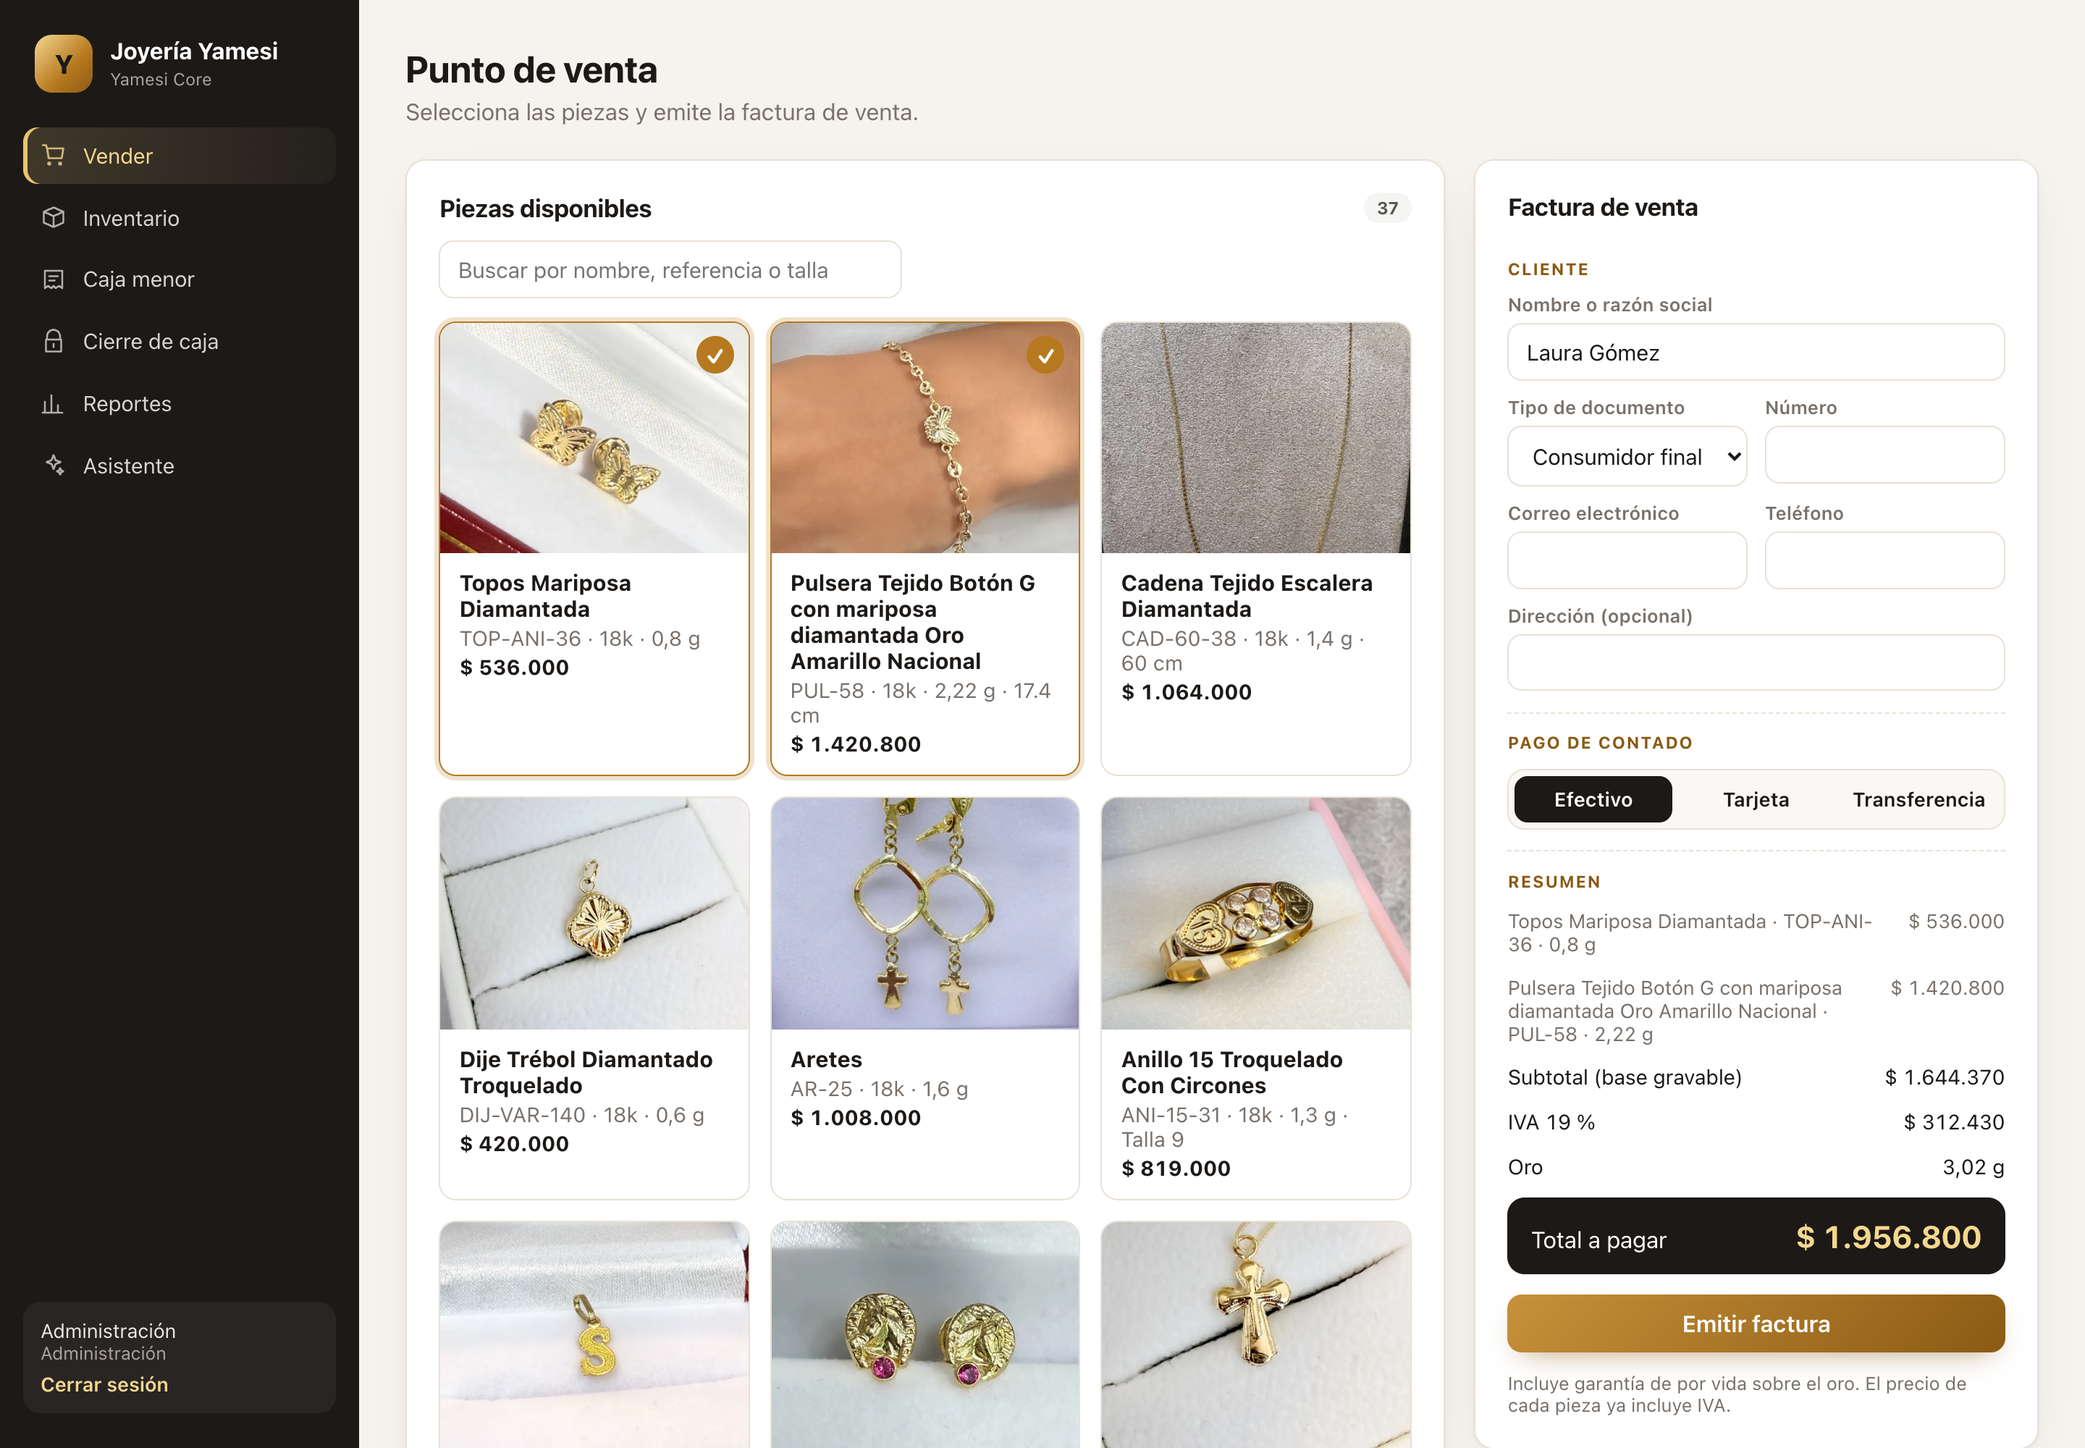
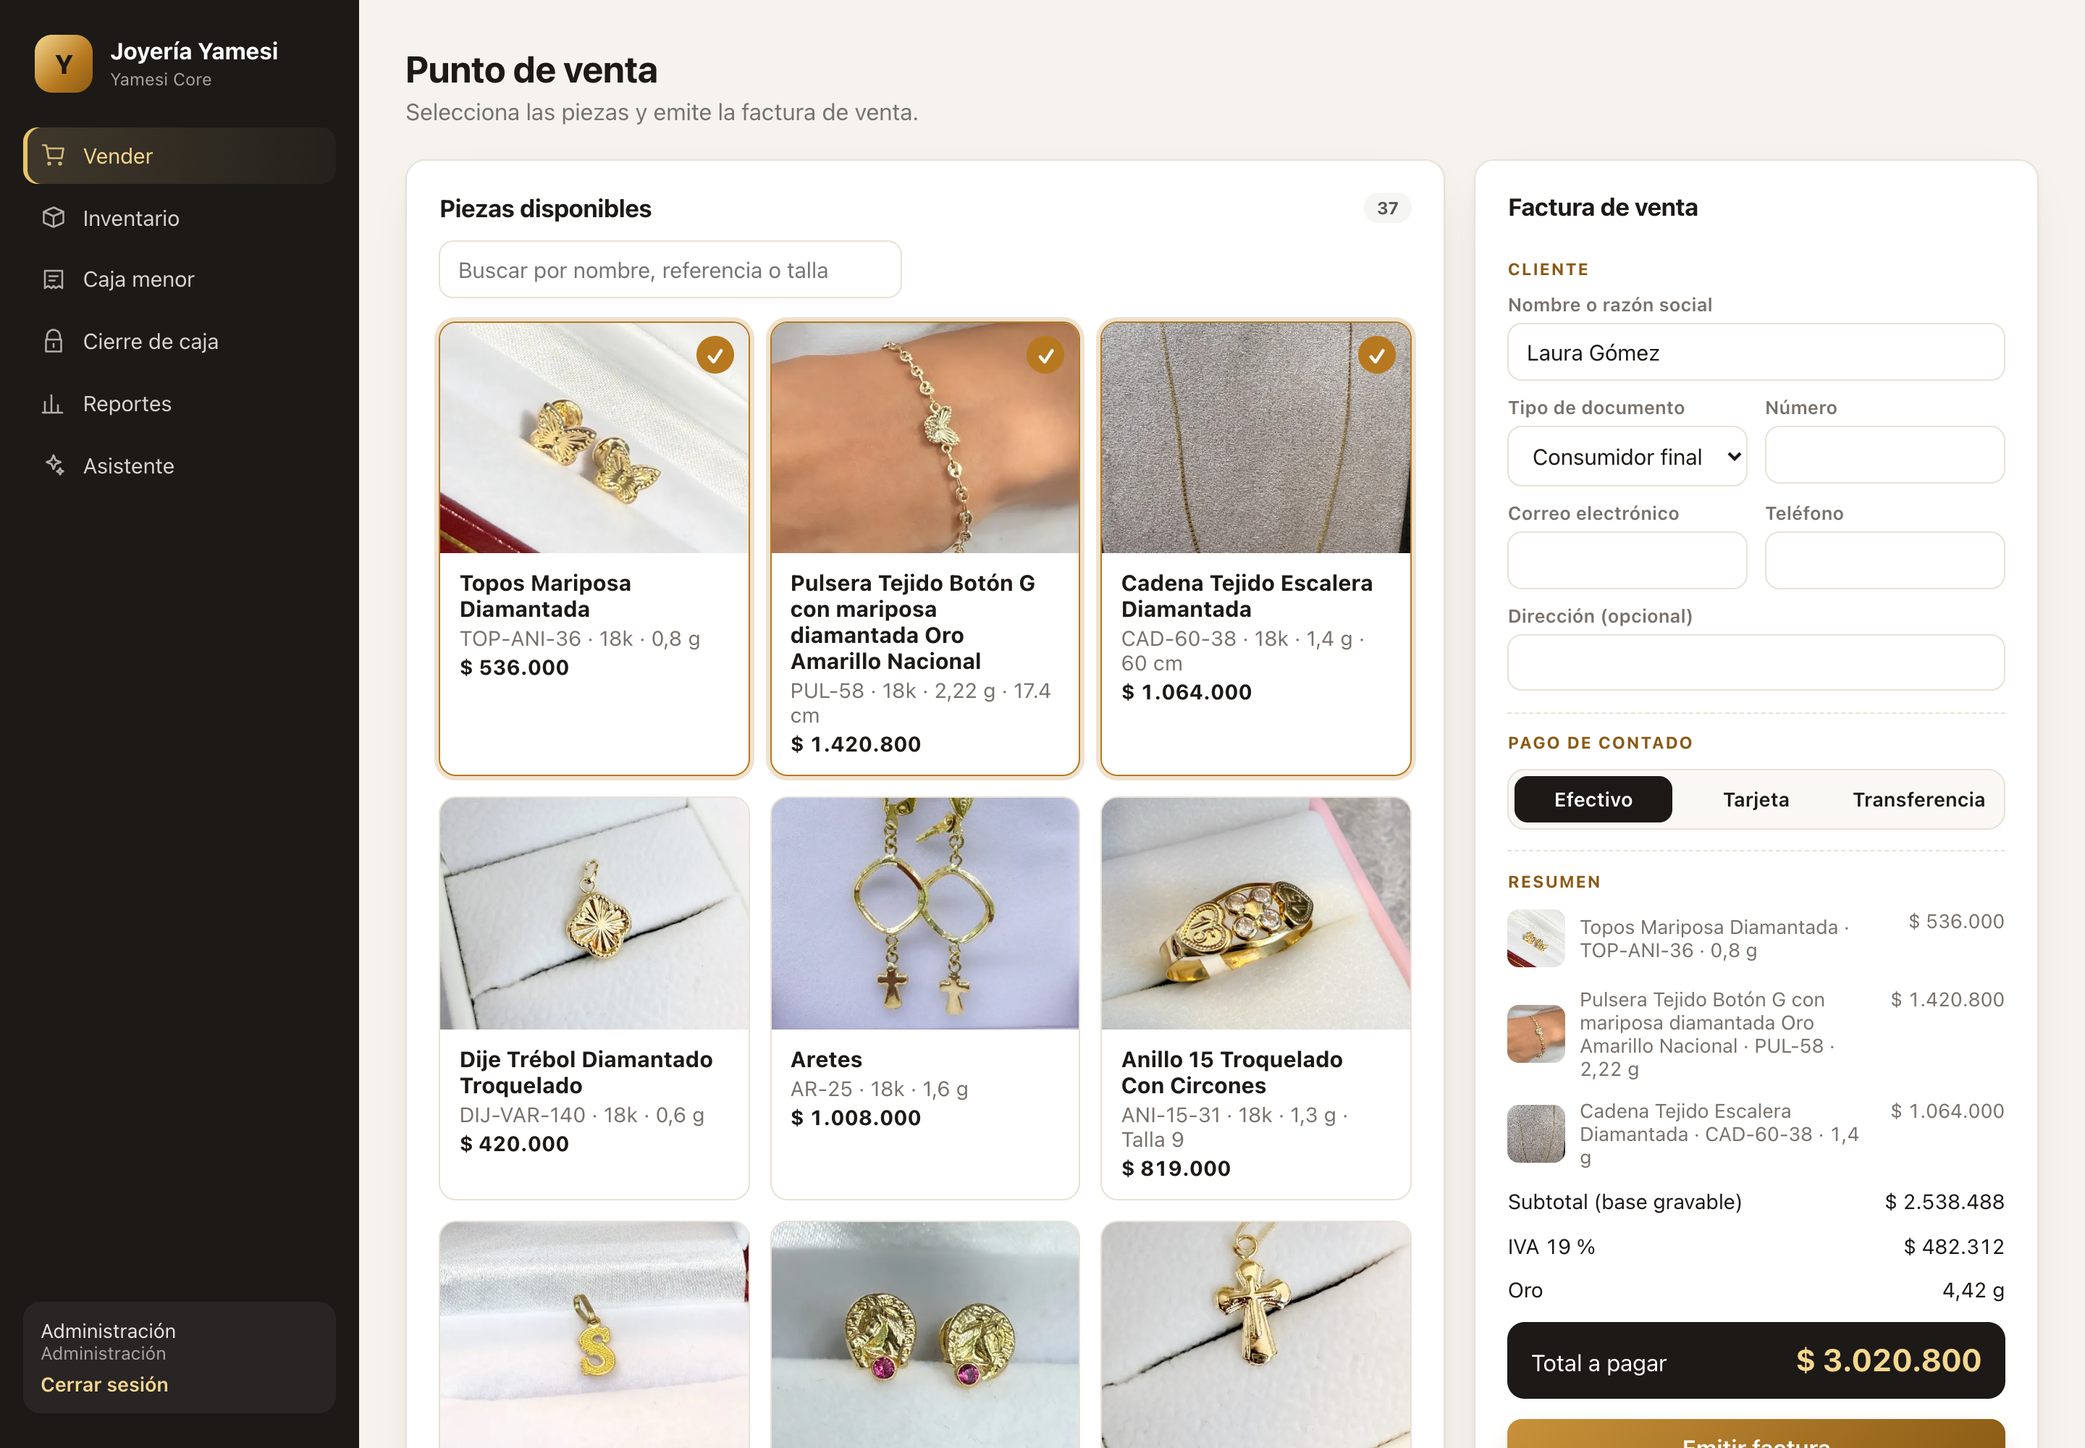
feat(invoices): each piece's photo on sale lines, the issued invoice and the PDF; README processes
Invoice lines return the piece photo (presigned URL); the PDF embeds JPEG
photos as is, without decoding. The README walks through every process
with diagrams and screenshots.

diff --git a/backend/src/invoices/invoice-pdf.ts b/backend/src/invoices/invoice-pdf.ts
@@ -15,6 +15,8 @@ export interface InvoicePdfItem {
   taxBase: number;
   vat: number;
   price: number;
+  /** JPEG photo of the piece, printed on its line. */
+  photo?: Buffer | null;
 }
 
 export interface InvoicePdfData {
@@ -204,8 +206,11 @@ export function renderInvoicePdf(data: InvoicePdfData): Promise<Buffer> {
     };
     tableHeader();
 
+    // Lines grow to fit a photo when at least one piece has one.
+    const withPhotos = data.items.some((item) => item.photo);
+    const photoSize = 34;
     data.items.forEach((item, index) => {
-      const rowHeight = 30;
+      const rowHeight = withPhotos ? photoSize + 8 : 30;
       if (y + rowHeight > PAGE.footerTop - 10) {
         doc.addPage();
         drawHeader();
@@ -224,12 +229,23 @@ export function renderInvoicePdf(data: InvoicePdfData): Promise<Buffer> {
       ];
       doc.font('Helvetica').fontSize(8.5).fillColor(COLOR.ink);
       cells.forEach((value, i) => {
-        if (value !== null) doc.text(value, cols[i].x + 3, y + 7, { width: cols[i].w - 6, align: cols[i].align, lineBreak: false, ellipsis: true });
+        if (value !== null) doc.text(value, cols[i].x + 3, withPhotos ? y + rowHeight / 2 - 4 : y + 7, { width: cols[i].w - 6, align: cols[i].align, lineBreak: false, ellipsis: true });
       });
       const description = item.size ? `${item.name} · ${item.size}` : item.name;
-      doc.font('Helvetica-Bold').fontSize(8.5).text(description, cols[2].x + 3, y + 5, { width: cols[2].w - 6, lineBreak: false, ellipsis: true });
+      let textX = cols[2].x + 3;
+      if (item.photo) {
+        doc.save();
+        doc.roundedRect(textX, y + 4, photoSize, photoSize, 4).clip();
+        doc.image(item.photo, textX, y + 4, { cover: [photoSize, photoSize], align: 'center', valign: 'center' });
+        doc.restore();
+      }
+      if (withPhotos) textX += photoSize + 6;
+      const textWidth = cols[2].w - 6 - (textX - cols[2].x - 3);
+      // With photos, the two text lines sit centered next to the picture.
+      const textTop = withPhotos ? y + rowHeight / 2 - 11 : y + 5;
+      doc.font('Helvetica-Bold').fontSize(8.5).text(description, textX, textTop, { width: textWidth, lineBreak: false, ellipsis: true });
       doc.font('Helvetica').fontSize(7.5).fillColor(COLOR.muted)
-        .text(`Oro ${item.karat}k · ley ${fineness(item.karat)} · ${grams.format(item.grams)} g`, cols[2].x + 3, y + 17, { width: cols[2].w - 6 });
+        .text(`Oro ${item.karat}k · ley ${fineness(item.karat)} · ${grams.format(item.grams)} g`, textX, textTop + 12, { width: textWidth });
       doc.moveTo(PAGE.left, y + rowHeight).lineTo(PAGE.right, y + rowHeight).lineWidth(0.5).strokeColor(COLOR.line).stroke();
       y += rowHeight;
     });

diff --git a/backend/src/invoices/invoices.service.ts b/backend/src/invoices/invoices.service.ts
@@ -56,6 +56,7 @@ interface ItemRow {
   sku: string;
   reference: string | null;
   size: string | null;
+  image_key: string | null;
   name: string;
   karat: number;
   gold_mg: number;
@@ -312,7 +313,7 @@ export class InvoicesService {
       subtotal: row.subtotal,
       vatTotal: row.vat_total,
       total: row.total,
-      items: await this.items(id),
+      items: await this.pdfItems(id),
       cufe: row.cufe ?? computeCufe(cufeInput),
       cufeInput,
     });
@@ -354,8 +355,30 @@ export class InvoicesService {
   }
 
   private async items(invoiceId: string) {
+    const rows = await this.itemRows(invoiceId);
+    return Promise.all(
+      rows.map(async ({ image_key, ...row }) => ({
+        ...this.toItem(row),
+        imageUrl: image_key ? await this.storage.signedUrl(image_key) : null,
+      })),
+    );
+  }
+
+  /** Lines for the PDF, with each piece's photo when it is a JPEG (embedded as is, no decoding). */
+  private async pdfItems(invoiceId: string) {
+    const rows = await this.itemRows(invoiceId);
+    return Promise.all(
+      rows.map(async ({ image_key, ...row }) => {
+        const photo = image_key ? await this.storage.get(image_key).catch(() => null) : null;
+        const isJpeg = photo !== null && photo[0] === 0xff && photo[1] === 0xd8 && photo[2] === 0xff;
+        return { ...this.toItem(row), photo: isJpeg ? photo : null };
+      }),
+    );
+  }
+
+  private async itemRows(invoiceId: string) {
     const { rows } = await this.db.query<ItemRow>(
-      `SELECT ii.piece_id, p.sku, p.reference, p.size, p.name, l.karat, p.gold_mg, ii.price, ii.cost, ii.vat_rate, ii.tax_base, ii.vat
+      `SELECT ii.piece_id, p.sku, p.reference, p.size, p.image_key, p.name, l.karat, p.gold_mg, ii.price, ii.cost, ii.vat_rate, ii.tax_base, ii.vat
        FROM invoice_items ii
        JOIN pieces p ON p.id = ii.piece_id
        JOIN gold_lots l ON l.id = p.lot_id
@@ -363,7 +386,11 @@ export class InvoicesService {
        ORDER BY p.id`,
       [invoiceId],
     );
-    return rows.map((row) => ({
+    return rows;
+  }
+
+  private toItem(row: Omit<ItemRow, 'image_key' | 'cost'>) {
+    return {
       pieceId: row.piece_id,
       sku: row.sku,
       reference: row.reference,
@@ -375,7 +402,7 @@ export class InvoicesService {
       taxBase: row.tax_base,
       vat: row.vat,
       price: row.price,
-    }));
+    };
   }
 
   private toSummary(row: InvoiceRow) {

diff --git a/backend/test/e2e/invoices.e2e-spec.ts b/backend/test/e2e/invoices.e2e-spec.ts
@@ -1,4 +1,6 @@
 import { randomUUID } from 'node:crypto';
+import { readFileSync } from 'node:fs';
+import path from 'node:path';
 import { computeCufe } from '../../src/invoices/cufe';
 import { dianDateTime } from '../../src/invoices/invoices.service';
 import {
@@ -154,8 +156,10 @@ describe('Invoicing', () => {
           ...overrides,
         });
 
-    it('discriminates 19% VAT per line, stores the buyer and issues a CUFE that matches the DIAN formula', async () => {
+    it('discriminates 19% VAT per line, stores the buyer, issues a CUFE that matches the DIAN formula and prints each photo', async () => {
+      await ctx.storage.put('pieces/ring.jpg', readFileSync(path.join(__dirname, '../fixtures/piece.jpg')), 'image/jpeg');
       const ring = await createPiece(ctx.pool, adminId, lotId, {
+        imageKey: 'pieces/ring.jpg',
         price: 1_190_000,
         goldMg: 3_000,
         laborCost: 100_000,
@@ -181,7 +185,11 @@ describe('Invoicing', () => {
       });
       expect(data.items).toEqual([
         expect.objectContaining({ reference: 'AN-DAM-172', size: 'Talla 7', grams: 3, taxBase: 1_000_000, vat: 190_000, price: 1_190_000 }),
-        expect.objectContaining({ reference: null, taxBase: 1_386_555, vat: 263_445, price: 1_650_000, vatRate: 19 }),
+        expect.objectContaining({ reference: null, taxBase: 1_386_555, vat: 263_445, price: 1_650_000, imageUrl: null }),
+      ]);
+      expect(data.items).toEqual([
+        expect.objectContaining({ imageUrl: 'memory://pieces/ring.jpg' }),
+        expect.objectContaining({ imageUrl: null }),
       ]);
 
       // Recompute the CUFE from what was stored: same inputs, same SHA-384, as a DIAN validator would.
@@ -200,6 +208,8 @@ describe('Invoicing', () => {
       expect(pdf.status).toBe(200);
       expect(pdf.headers['content-disposition']).toContain('factura-FV-000001.pdf');
       expect((pdf.body as Buffer).subarray(0, 4).toString()).toBe('%PDF');
+      // The QR is drawn as vectors, so the only embedded image is the ring's photo.
+      expect((pdf.body as Buffer).toString('latin1').match(/\/Subtype \/Image/g)).toHaveLength(1);
     });
 
     it('uses the final-consumer id 222222222222 in the CUFE when no document is given', async () => {

diff --git a/frontend/src/pages/Sell.tsx b/frontend/src/pages/Sell.tsx
@@ -132,6 +132,22 @@ export function SellPage({ token, onUnauthorized }: PageProps) {
               <span className="hint">
                 Base {formatCop(issued.subtotal)} · IVA {formatCop(issued.vatTotal)} · CUFE {issued.cufe?.slice(0, 12)}…
               </span>
+              {issued.items && (
+                <ul className="issued-items">
+                  {issued.items.map((item) => (
+                    <li key={item.pieceId}>
+                      {item.imageUrl ? <img src={item.imageUrl} alt="" /> : <span className="thumb-empty" aria-hidden="true" />}
+                      <span>
+                        {item.name}
+                        <small>
+                          {item.reference ?? item.sku} · {formatGrams(item.grams)}
+                        </small>
+                      </span>
+                      <strong>{formatCop(item.price)}</strong>
+                    </li>
+                  ))}
+                </ul>
+              )}
               <button type="button" className="btn-secondary" onClick={() => void openPdf(`/invoices/${issued.id}/pdf`, token)}>
                 Ver factura (PDF)
               </button>
@@ -213,8 +229,11 @@ export function SellPage({ token, onUnauthorized }: PageProps) {
             {cart.length === 0 && <p className="hint">Selecciona una o más piezas del catálogo.</p>}
             {cart.map((piece) => (
               <div key={piece.id} className="summary-line item">
-                <span>
-                  {piece.name} · {piece.reference ?? piece.sku} · {formatGrams(piece.grams)}
+                <span className="line-piece">
+                  {piece.imageUrl ? <img src={piece.imageUrl} alt="" /> : <span className="thumb-empty" aria-hidden="true" />}
+                  <span>
+                    {piece.name} · {piece.reference ?? piece.sku} · {formatGrams(piece.grams)}
+                  </span>
                 </span>
                 <span>{formatCop(piece.price)}</span>
               </div>

diff --git a/backend/test/e2e/helpers.ts b/backend/test/e2e/helpers.ts
@@ -95,13 +95,21 @@ export async function createPiece(
     laborCost = 100_000,
     reference = null,
     size = null,
-  }: { price?: number; goldMg?: number; laborCost?: number; reference?: string | null; size?: string | null } = {},
+    imageKey = null,
+  }: {
+    price?: number;
+    goldMg?: number;
+    laborCost?: number;
+    reference?: string | null;
+    size?: string | null;
+    imageKey?: string | null;
+  } = {},
 ): Promise<number> {
   await pool.query('UPDATE gold_lots SET remaining_mg = remaining_mg - $1 WHERE id = $2', [goldMg, lotId]);
   const { rows } = await pool.query<{ id: number }>(
-    `INSERT INTO pieces (name, reference, size, category, lot_id, gold_mg, labor_cost, price, created_by)
-     VALUES ('Pieza de prueba', $1, $2, 'ANILLO', $3, $4, $5, $6, $7) RETURNING id`,
-    [reference, size, lotId, goldMg, laborCost, price, adminId],
+    `INSERT INTO pieces (name, reference, size, category, lot_id, gold_mg, labor_cost, price, image_key, created_by)
+     VALUES ('Pieza de prueba', $1, $2, 'ANILLO', $3, $4, $5, $6, $7, $8) RETURNING id`,
+    [reference, size, lotId, goldMg, laborCost, price, imageKey, adminId],
   );
   return rows[0].id;
 }

diff --git a/frontend/src/styles.css b/frontend/src/styles.css
@@ -852,3 +852,42 @@ td small {
   color: var(--muted);
   font-size: 0.8rem;
 }
+
+/* ---------- Piece photos on sale lines ---------- */
+
+.line-piece {
+  display: flex;
+  align-items: center;
+  gap: 0.6rem;
+}
+
+.line-piece img,
+.issued-items img,
+.thumb-empty {
+  flex: none;
+  width: 40px;
+  height: 40px;
+  border-radius: 8px;
+  object-fit: cover;
+  background: linear-gradient(135deg, #f7e3a8, #d6a645 55%, #a8721e);
+}
+
+.issued-items {
+  display: grid;
+  gap: 0.5rem;
+  margin: 0.4rem 0;
+  padding: 0;
+  list-style: none;
+}
+
+.issued-items li {
+  display: grid;
+  grid-template-columns: 40px 1fr auto;
+  align-items: center;
+  gap: 0.6rem;
+}
+
+.issued-items small {
+  display: block;
+  color: var(--muted);
+}

diff --git a/frontend/src/api.ts b/frontend/src/api.ts
@@ -41,6 +41,7 @@ export interface InvoiceItem {
   sku: string;
   reference: string | null;
   size: string | null;
+  imageUrl: string | null;
   name: string;
   karat: number;
   grams: number;

diff --git a/README.md b/README.md
@@ -30,6 +30,71 @@ Everything in this repository, end to end:
 - **AI assistant:** a local model (Ollama) limited to five read-only aggregate tools, with an evaluation of its answers.
 - **Delivery and quality:** Docker Compose for the whole stack, non-root containers, a scripted business day (`make demo`), 53 automated tests and CI with CodeQL, Gitleaks and `npm audit`.
 
+## Processes, step by step
+
+### 1. Receive gold and register pieces
+
+```mermaid
+flowchart LR
+  G[Gold purchase] -->|grams and cost per gram| L[(Gold lot)]
+  L -->|milligrams consumed, never below zero| P[Piece: reference, size,<br/>weight, labor, price, photo]
+  P --> C[Catalog in the inventory portal]
+  C -->|edit price, size, photo| A[(Audit log)]
+```
+
+1. The admin registers a gold lot: supplier, grams and cost per gram.
+2. Each piece is created with its catalog reference, size, gold weight, labor and price, and a photo stored in S3. Its gold leaves the lot in the same transaction.
+3. In the inventory portal the admin searches the catalog, edits a piece in stock and replaces its photo. Every change is audited with its old value; sold pieces stay as invoiced.
+
+![Inventory portal: catalog with photos, stock value and filters](docs/screenshots/02-inventory-gold-lots.png)
+
+### 2. Sell and issue the invoice
+
+```mermaid
+sequenceDiagram
+  actor S as Seller
+  participant UI as Point of sale
+  participant API as NestJS API
+  participant DB as PostgreSQL
+  participant S3 as S3
+  S->>UI: pick pieces by photo, reference or size; buyer and payment
+  UI->>API: POST /invoices with an Idempotency-Key
+  API->>DB: BEGIN, shared lock on the day, pieces locked in id order
+  API->>DB: pieces SOLD, next gap-free number, VAT per line, CUFE
+  API->>DB: COMMIT invoice, lines with frozen cost, audit record
+  API-->>UI: 201 with each line and its photo
+  UI->>API: GET /invoices/:id/pdf
+  API->>S3: read the piece photos, store the PDF
+  API-->>UI: PDF with photos, CUFE and QR
+```
+
+1. The seller finds pieces by photo, name, reference or size; the summary shows each piece with its photo, the VAT split and the gold weight.
+2. The invoice is created in one transaction. A retry with the same key returns the same invoice; the same key with other data is a `409`; a piece someone else just sold gives `PIECE_NOT_AVAILABLE`.
+3. The PDF prints every line with its photo, reference, size, karat, fineness and weight, the total in words, the lifetime gold warranty, the CUFE and the QR.
+
+![Point of sale with catalog photos and the sale summary](docs/screenshots/01-sell-invoices.png)
+
+### 3. Petty cash with receipts
+
+1. An expense has a category, a description, an amount and a photo of its receipt. The file type is checked by its first bytes, never by its name, and stored in S3.
+2. Expenses belong to the business day; once the day is closed, a new one gets `DAY_CLOSED`.
+
+![Petty cash with the receipt photos of the day](docs/screenshots/03-petty-cash-receipt.png)
+
+### 4. Close the day
+
+1. Expected cash = opening + cash sales − expenses. Card and transfer sales do not count.
+2. The cashier enters the counted cash; the difference is recorded.
+3. The closing takes an exclusive lock on the day, so nothing slips in while totals are computed; afterwards the day is locked.
+
+![Daily closing: expected versus counted cash, day locked](docs/screenshots/04-day-closing.png)
+
+### 5. Reports, audit and the assistant
+
+Gold by karat across lots, stock and sales; gross margin without VAT from costs frozen at sale time; the audit trail of every step above; and the optional local assistant, which only reads aggregates.
+
+![Reports: gold, margin and audit trail](docs/screenshots/05-reports-audit.png)
+
 ## What it solves
 
 | Business need | How Yamesi handles it |
